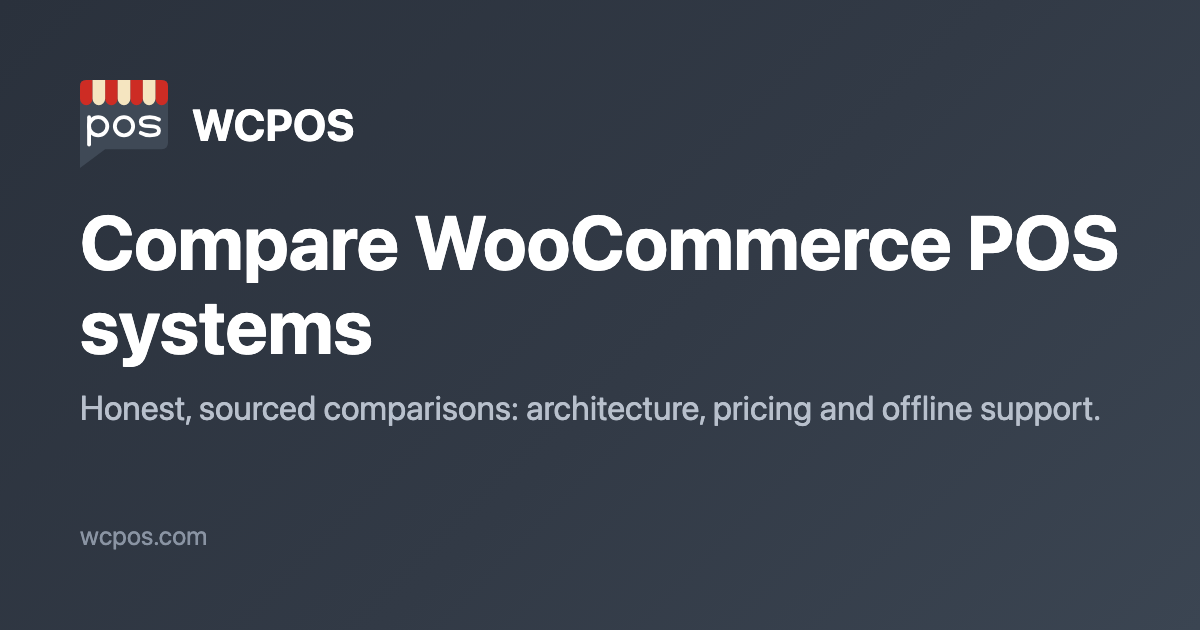
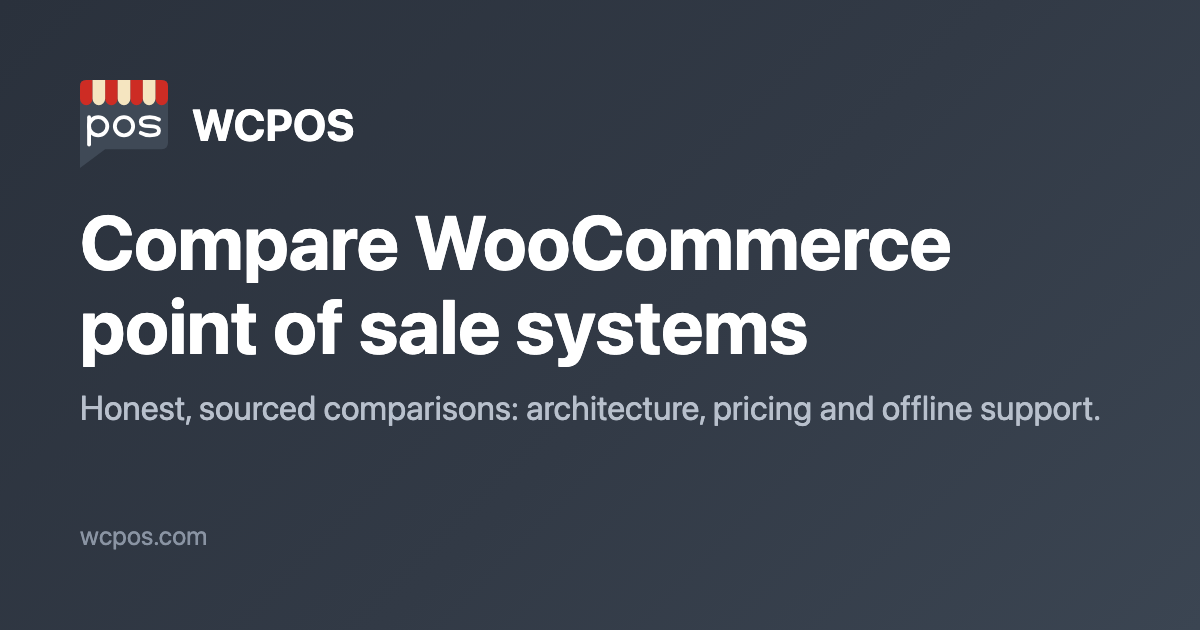
copy: replace "WooCommerce POS" in visible copy, all 10 locales (#934)
* copy: replace "WooCommerce POS" in visible copy, all 10 locales

The product is WCPOS / WCPOS Pro. Titles and descriptions that want a
description use "point of sale for WooCommerce" or "WooCommerce point of
sale". The two strings naming WooCommerce's own product read
"WooCommerce's official POS". Slugs, URLs and keys are unchanged.
Also drops the Lifetime advert from the Oliver comparison paragraph.

* copy(og): compare social card uses the new wording

* copy(extensions): three descriptions say WCPOS, as merged upstream in wcpos/extensions#26

Changed region(s): [[0.0617, 0.4524, 0.6783, 0.6032], [0.8017, 0.3317, 0.9558, 0.4524]]

diff --git a/src/app/[locale]/(main)/roadmap/roadmap-messages.test.ts b/src/app/[locale]/(main)/roadmap/roadmap-messages.test.ts
@@ -16,7 +16,7 @@ type Messages = typeof en
 // same head term as that locale's changelog title. The layout appends
 // " | WCPOS" to meta.title, hence the shorter title limits.
 const LOCALES = [
-  { locale: 'en', messages: en, head: 'WooCommerce POS', old: 'Roadmap', title: 52, description: 155 },
+  { locale: 'en', messages: en, head: 'Point of Sale for WooCommerce', pageHead: 'WCPOS', old: 'Roadmap', title: 52, description: 155 },
   { locale: 'de', messages: de, head: 'WooCommerce-Kassensystem', old: 'Produktplanung', title: 52, description: 160 },
   { locale: 'nl', messages: nl, head: 'Kassasysteem voor WooCommerce', old: 'Routekaart', title: 52, description: 160 },
   { locale: 'fr', messages: fr, head: 'Point de vente WooCommerce', old: 'Feuille de route', title: 52, description: 160 },
@@ -30,6 +30,7 @@ const LOCALES = [
   locale: string
   messages: Messages
   head: string
+  pageHead?: string
   old: string
   title: number
   description: number
@@ -38,18 +39,19 @@ const LOCALES = [
 const length = (value: string) => [...value].length
 
 describe('roadmap messages', () => {
-  it('en title and H1 name WooCommerce POS', () => {
-    expect(en.roadmap.meta.title).toBe("WooCommerce POS Roadmap: What's Next")
-    expect(en.roadmap.page.title).toBe('WooCommerce POS Roadmap')
+  // The product is WCPOS; "WooCommerce POS" is never its name.
+  it('en title describes the product and the H1 names WCPOS', () => {
+    expect(en.roadmap.meta.title).toBe("Point of Sale for WooCommerce Roadmap: What's Next")
+    expect(en.roadmap.page.title).toBe('WCPOS Roadmap')
   })
 
-  describe.each(LOCALES)('$locale', ({ messages, head, old, title, description }) => {
+  describe.each(LOCALES)('$locale', ({ messages, head, pageHead, old, title, description }) => {
     const { meta, page } = messages.roadmap
 
     it('title and H1 contain the head term', () => {
       // Mid-sentence H1s lower-case the head term (nl "het kassasysteem voor WooCommerce").
       expect(meta.title.toLowerCase()).toContain(head.toLowerCase())
-      expect(page.title.toLowerCase()).toContain(head.toLowerCase())
+      expect(page.title.toLowerCase()).toContain((pageHead ?? head).toLowerCase())
     })
 
     it('title and description fit the search result limits', () => {

diff --git a/src/app/[locale]/(main)/changelog/page.test.tsx b/src/app/[locale]/(main)/changelog/page.test.tsx
@@ -72,7 +72,7 @@ describe('ChangelogPage', () => {
     )
 
     expect(getReleases).toHaveBeenCalledWith('woocommerce-pos')
-    expect(screen.getByRole('heading', { level: 1, name: 'WooCommerce POS Changelog' }))
+    expect(screen.getByRole('heading', { level: 1, name: 'WCPOS Changelog' }))
       .toBeInTheDocument()
     expect(screen.getByText(enMessages.changelog.page.description))
       .toBeInTheDocument()
@@ -133,7 +133,7 @@ describe('ChangelogPage', () => {
       await ChangelogPage({ params: Promise.resolve({ locale: 'en' }) }),
     )
 
-    expect(screen.getByRole('heading', { level: 1, name: 'WooCommerce POS Changelog' }))
+    expect(screen.getByRole('heading', { level: 1, name: 'WCPOS Changelog' }))
       .toBeInTheDocument()
     expect(container.querySelectorAll('summary')).toHaveLength(0)
   })
@@ -151,7 +151,7 @@ describe('ChangelogPage', () => {
       params: Promise.resolve({ locale: 'en' }),
     })
 
-    expect(metadata.title).toBe('WooCommerce POS Changelog & Release Notes')
+    expect(metadata.title).toBe('Changelog & Release Notes: Point of Sale for WooCommerce')
     expect(metadata.description).toBe(
       'Release notes for the latest published versions of WCPOS, the free point of sale plugin for WooCommerce, straight from GitHub.',
     )

diff --git a/src/components/support/support-hero-title.test.ts b/src/components/support/support-hero-title.test.ts
@@ -1,4 +1,4 @@
-// The /support H1 is text-balanced at md:text-5xl inside max-w-2xl; a no-break space keeps the product name on one line.
+// The /support H1 names the product WCPOS; "WooCommerce POS" is never its name, with any space.
 import { describe, expect, it } from 'vitest'
 import de from '../../../messages/de.json'
 import en from '../../../messages/en.json'
@@ -15,10 +15,10 @@ const locales = { en, de, nl, fr, es, it: it_, pt, ja, ko, zh }
 
 describe('support.chat.hero.title', () => {
   for (const [locale, messages] of Object.entries(locales)) {
-    it(`${locale} support.chat.hero.title keeps WooCommerce POS together`, () => {
+    it(`${locale} support.chat.hero.title names WCPOS, never WooCommerce POS`, () => {
       const title = messages.support.chat.hero.title
-      expect(title).toContain('WooCommerce\u00a0POS')
-      expect(title).not.toContain('WooCommerce POS')
+      expect(title).toContain('WCPOS')
+      expect(title).not.toMatch(/WooCommerce[\s\u00a0]POS/)
     })
   }
 })

diff --git a/src/app/[locale]/(main)/pro/page.test.tsx b/src/app/[locale]/(main)/pro/page.test.tsx
@@ -21,7 +21,7 @@ vi.mock('next-intl/server', () => ({
       'metadata.description': 'Translated Pro metadata description',
       'hero.title': 'Translated WCPOS Pro hero',
       'hero.subtitle': 'Translated Pro hero subtitle',
-      'hub.hero.title': 'Compare WooCommerce POS systems',
+      'hub.hero.title': 'Compare WooCommerce point of sale systems',
       'schema.name': 'Translated WCPOS Pro schema name',
       'schema.description': 'Translated Pro schema description',
       'features.title': 'Pro features',
@@ -179,7 +179,7 @@ describe('ProPage', () => {
     render(await ProPage({ params: Promise.resolve({ locale: 'en' }) }))
 
     expect(
-      screen.getByRole('link', { name: 'Compare WooCommerce POS systems' })
+      screen.getByRole('link', { name: 'Compare WooCommerce point of sale systems' })
     ).toHaveAttribute('href', '/compare')
   })
 

diff --git a/src/components/main/cta-band.test.tsx b/src/components/main/cta-band.test.tsx
@@ -82,11 +82,11 @@ describe('CtaBand', () => {
           { label: 'Try Demo', href: 'https://demo.wcpos.com/pos' },
           { label: 'Download', href: '/downloads', variant: 'inverse' },
         ]}
-        link={{ label: 'Compare WooCommerce POS systems', href: '/compare' }}
+        link={{ label: 'Compare WooCommerce point of sale systems', href: '/compare' }}
       />,
     )
     const link = screen.getByRole('link', {
-      name: 'Compare WooCommerce POS systems',
+      name: 'Compare WooCommerce point of sale systems',
     })
     expect(link).toHaveAttribute('href', '/compare')
     const links = screen.getAllByRole('link')

diff --git a/src/app/[locale]/(main)/meta-description-length.test.ts b/src/app/[locale]/(main)/meta-description-length.test.ts
@@ -184,7 +184,7 @@ describe('home and /downloads meta descriptions', () => {
 
   it('en home.meta.description scopes offline to cash sales', () => {
     expect(en.home.meta.description).toBe(
-      'Free, open-source WooCommerce POS for your tablet, phone or computer. Cash sales work offline; split payments and register open/close are free in 2.0.'
+      'Free, open-source WooCommerce point of sale for tablet, phone or computer. Cash sales work offline; split payments and register open/close are free in 2.0.'
     )
   })
 

diff --git a/e2e/support.spec.ts b/e2e/support.spec.ts
@@ -20,7 +20,7 @@ test('support page answers a question and shows Discord', async ({ page }) => {
   })
 
   await page.goto('/en/support')
-  await expect(page.getByRole('heading', { level: 1, name: /woocommerce pos help & support/i })).toBeVisible()
+  await expect(page.getByRole('heading', { level: 1, name: /wcpos for woocommerce: help & support/i })).toBeVisible()
 
   await page.getByRole('textbox').pressSequentially('How do I print receipts?')
   await page.getByRole('button', { name: /^ask$/i }).click()

diff --git a/src/app/[locale]/(main)/downloads/page.test.tsx b/src/app/[locale]/(main)/downloads/page.test.tsx
@@ -131,7 +131,7 @@ describe('DownloadsPage', () => {
     render(await DownloadsPage({ params: Promise.resolve({ locale: 'en' }) }))
 
     expect(
-      screen.getByRole('heading', { level: 1, name: 'Download WooCommerce POS' }),
+      screen.getByRole('heading', { level: 1, name: 'Download WCPOS for WooCommerce' }),
     ).toBeInTheDocument()
     expect(screen.getByText('Install the free plugin, then open the register in a browser or an app.')).toBeInTheDocument()
   })

diff --git a/src/i18n/about-title.test.ts b/src/i18n/about-title.test.ts
@@ -18,7 +18,7 @@ function load(locale: string): Messages {
 
 describe('about.meta.title', () => {
   it('en is the descriptive title', () => {
-    expect(load('en').about.meta.title).toBe('About Us: An Independent WooCommerce POS Since 2014')
+    expect(load('en').about.meta.title).toBe('About Us: An Independent WooCommerce Point of Sale Since 2014')
   })
 
   it.each(LOCALES)('%s names WooCommerce and 2014 and is more than the About label', (locale) => {

diff --git a/src/components/home/home-sections.test.tsx b/src/components/home/home-sections.test.tsx
@@ -316,7 +316,7 @@ describe('CtaSection', () => {
       screen.getByRole('link', { name: 'Download Free' })
     ).toHaveAttribute('href', '/downloads')
     expect(
-      screen.getByRole('link', { name: 'Compare WooCommerce POS systems' })
+      screen.getByRole('link', { name: 'Compare WooCommerce point of sale systems' })
     ).toHaveAttribute('href', '/compare')
   })
 

diff --git a/CONTEXT.md b/CONTEXT.md
@@ -1,6 +1,6 @@
 # WCPOS.com
 
-The commercial site for WooCommerce POS: marketing, Pro checkout, and the
+The commercial site for WCPOS: marketing, Pro checkout, and the
 customer account area where licenses, downloads, and orders are managed.
 Commerce runs on Medusa; licensing runs on Keygen CE.
 
